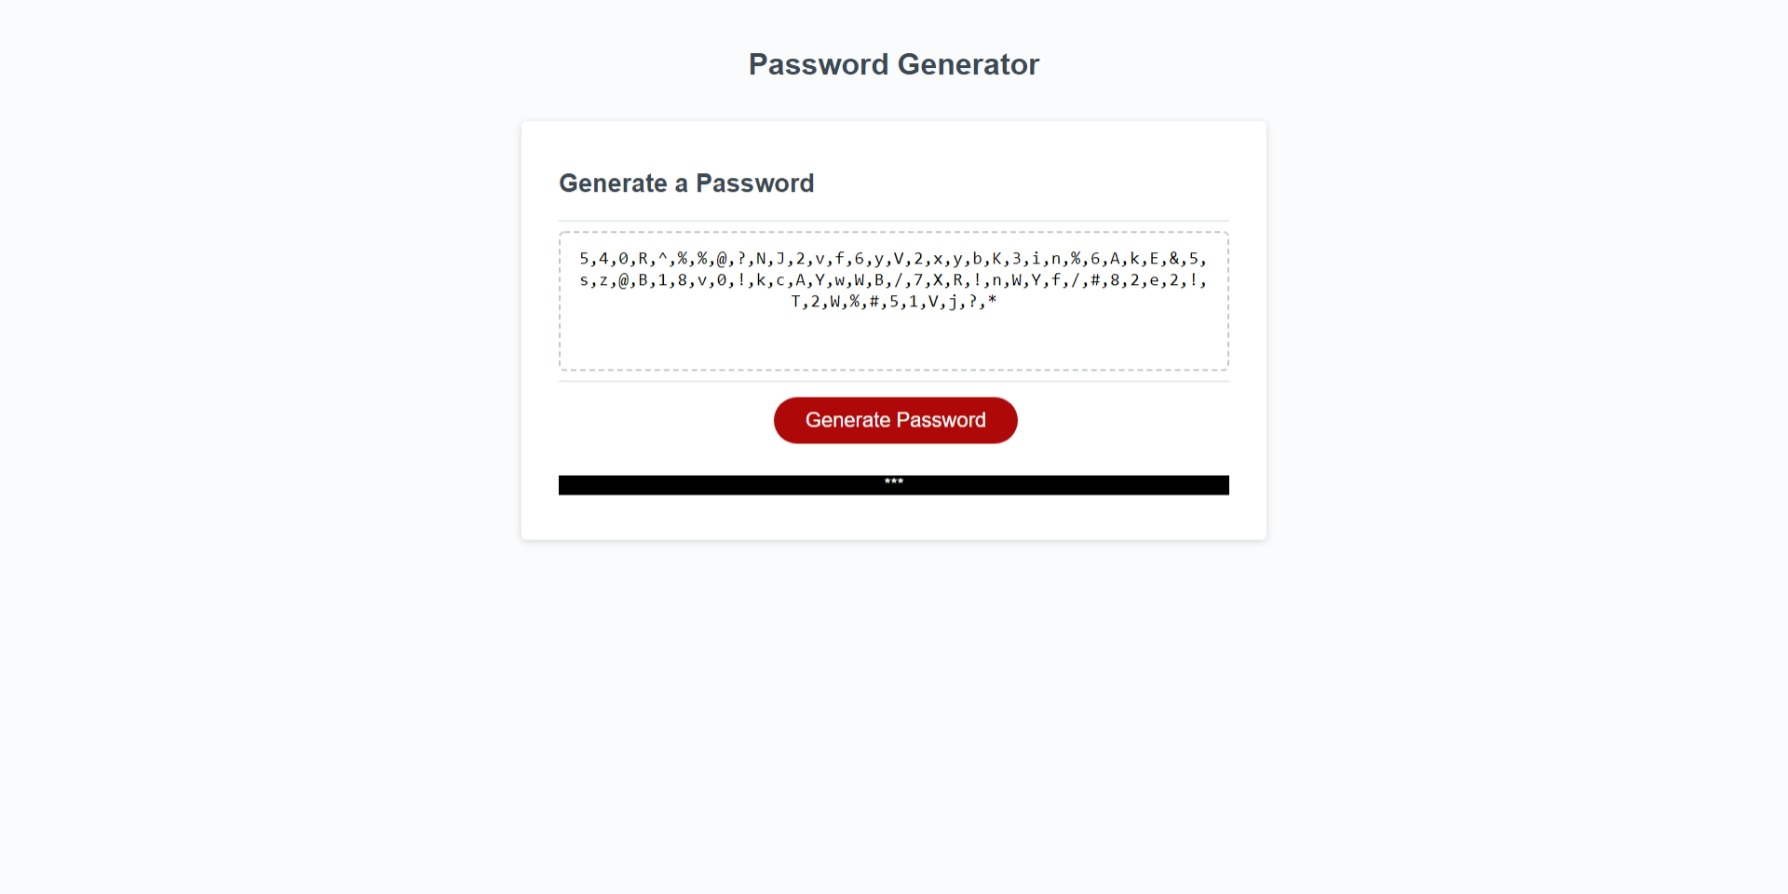
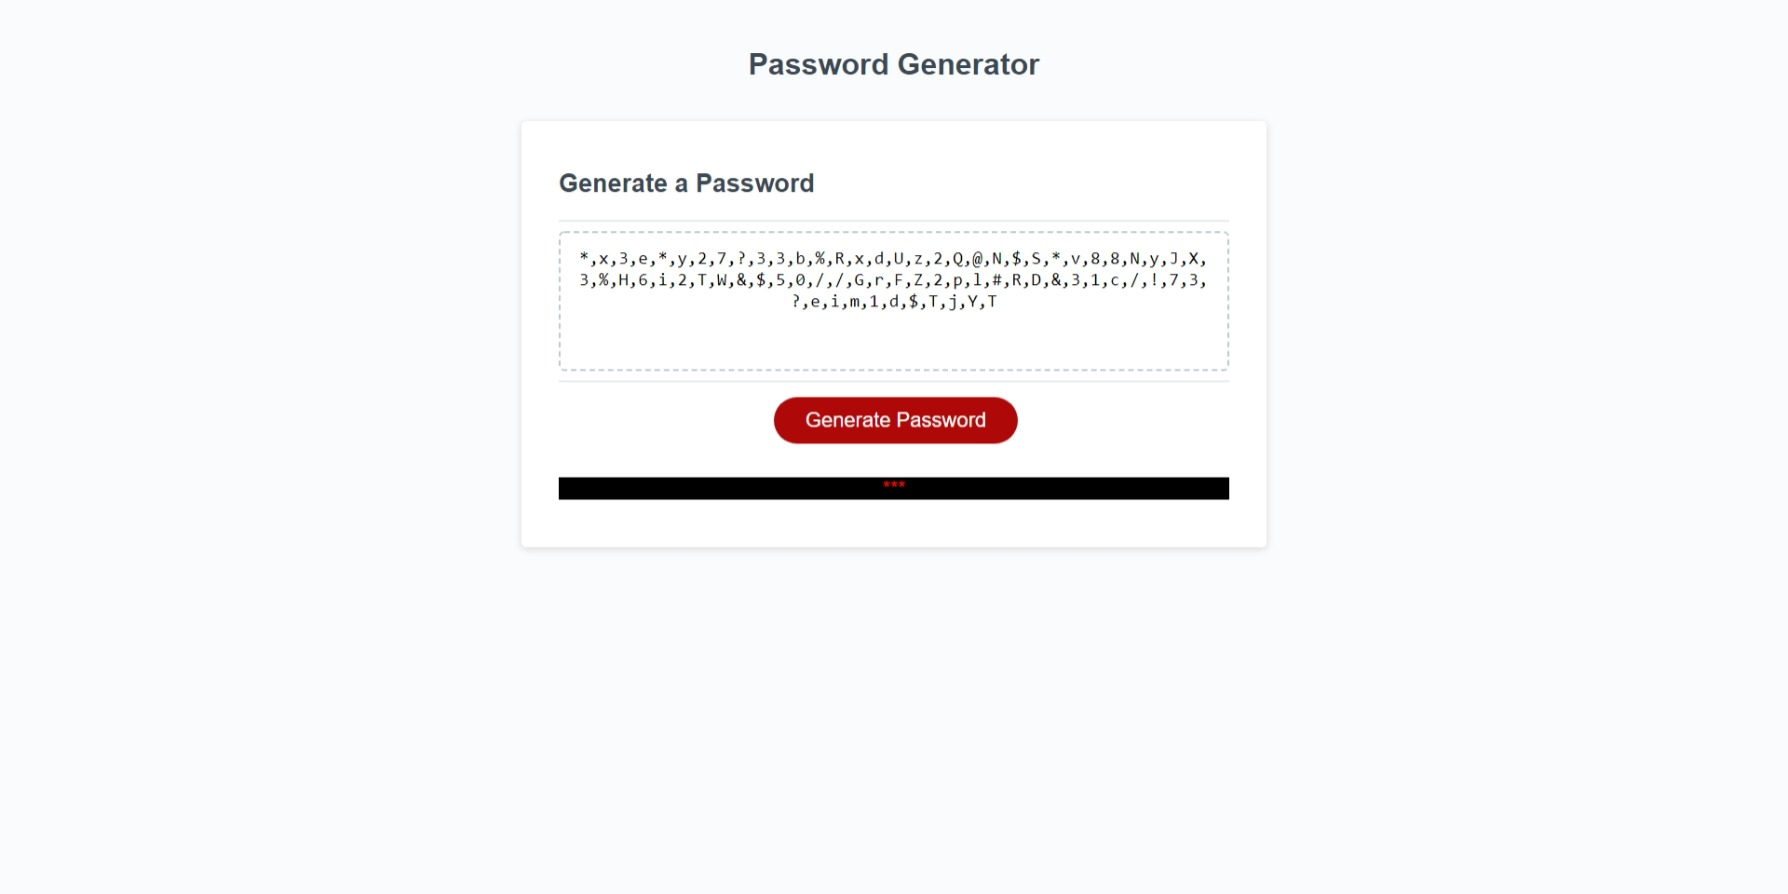
Cleaned up code.  Replaced screenshots.  Added true if statement for individual selection.  This must have got deleted earlier. Added let to variables in loops per review comments.

Changed region(s): [[0.3384, 0.2718, 0.6767, 0.3624], [0.3076, 0.5134, 0.6767, 0.5738]]

diff --git a/script.js b/script.js
@@ -8,95 +8,61 @@ var daRandom = {                    //This is the criteria selection initial arr
 var msg = 'Password must be between 8 and 128 characters.';   //** Responses to user wrong selections **/
 var msg1 = 'You must select a number.';
 var msg2 = 'You must select atleast 1 criteria.';
-var msg3 = 'Click Generate Password when you are ready.';
     
-function genpw() {
-
-  var quest1;  //List of questions to ask the user.
+function writePassword() {
+                                      
+  var quest1;                                                 //Variables for list of questions to ask the user.
   var quest2;
   var quest3;
   var quest4;
   var quest5;
-  var quest6;
 
-  //var mnray = [];  //This is the empty array that will hold the selected combined arrays for the generated random password.
-
-  var pick = 0;    //This represents count of how many criteria are selected.
+  var pick = 0;                                                //This represents count of how many criteria are selected.
   var dadivr = 0;
   var nwlray;
-  // var j;
   var newPswd = [];
   var pwdAdjust;
-  var k;
-  var i, rand, temp = [];
-  var x;           //This is for the loop nmlray and the push into the new array.  It keeps the number within the range of the selected array. 
+  // var k;
+  // var i;
+  var rand
+  var temp = [];
+  // var x;                                                       //This is for the loop nmlray and the push into the new array.  It keeps the number within the range of the selected array. 
   
-  quest2 = prompt('How many characters in the password?');
-  if ((quest2 <8) || (quest2 >128)) {
+  quest1 = prompt('How many characters in the password?');
+  if ((quest1 <8) || (quest1 >128)) {
     document.getElementById('dialog').innerHTML = msg; return;
-  } else if (isNaN(quest2)) {
+  } else if (isNaN(quest1)) {
   document.getElementById('dialog').innerHTML = msg1; return;
   } else {
-    quest2 = quest2;
+    quest1 = quest1;
   }
 
-  quest3 = confirm('Include lowercase letters?');
-  // if (quest3 ==true) {
-    // for (j = 0; j < dadivr; j++) {
-    // nwlray = [Math.floor(Math.random() * daRandom.lowwer.length)];
-    // newPswd.push(daRandom.lowwer[nwlray])};
-  // for (i = 0; i < daRandom.lowwer.length; i++) {mnray.push(daRandom.lowwer[i])};
-  // } else {
-  //   quest3 = quest3;
-  // }
+  quest2 = confirm('Include lowercase letters?');               //Criteria confirmation questions for user.
+    
+  quest3 = confirm('Include uppercase letters?');
   
-  quest4 = confirm('Include uppercase letters?');
-  // if (quest4 ==true) {
-    // for (j = 0; j < dadivr; j++) {
-    // nwlray = [Math.floor(Math.random() * daRandom.upper.length)];
-    // newPswd.push(daRandom.upper[nwlray])};
-  // for (i = 0; i < daRandom.upper.length; i++) {mnray.push(daRandom.upper[i])};
-  // } else {
-  // quest4 = quest4;
-  // }
-
-  quest5 = confirm('Include numbers?');
-  // if (quest5 ==true) {
-    // for (j = 0; j < dadivr; j++) {
-    // nwlray = [Math.floor(Math.random() * daRandom.numbers.length)];
-    // newPswd.push(daRandom.numbers[nwlray])};
-  // for (i = 0; i < daRandom.numbers.length; i++) {mnray.push(daRandom.numbers[i])};
-  // } else {
-  // quest5 = quest5;
-  // }
-
-  quest6 = confirm('Include special characters?');
-  // if (quest6 ==true) {
-    // for (j = 0; j < dadivr; j++) {
-    // nwlray = [Math.floor(Math.random() * daRandom.charspec.length)];
-    // newPswd.push(daRandom.charspec[nwlray])};
-  // for (i = 0; i < daRandom.charspec.length; i++) {mnray.push(daRandom.charspec[i])};  
-  // } else {
-  // quest6 = quest6;
-  // }
+  quest4 = confirm('Include numbers?');
   
+  quest5 = confirm('Include special characters?');
+    
   if (
-    (quest3 == false && quest4 == false) &&
-    (quest5 == false && quest6 == false)            //This validate the user selects atleast one criteria.
+    (quest2 == false && quest3 == false) &&
+    (quest4 == false && quest5 == false)                      //This validate the user selects atleast one criteria.
   ) {   
     document.getElementById('dialog').innerHTML = msg2; return;
   }
            
-  if (quest3 ==true) {pick++;};                     //This block gets a criteria selection count
-  if (quest4 ==true) {pick++;}; 
-  if (quest5 ==true) {pick++;};
-  if (quest6 ==true) {pick++;};  
-  dadivr = Math.ceil(quest2 / pick);
+  if (quest2 ===true) {pick++;};                               //This block gets a criteria selection count
+  if (quest3 ===true) {pick++;}; 
+  if (quest4 ===true) {pick++;};
+  if (quest5 ===true) {pick++;};  
+  dadivr = Math.ceil(quest1 / pick);
 
 console.log(dadivr);                                //Used to debug
   
-  if (quest3 ==true) {                              
-    for(i = 0; i < daRandom.lowwer.length; i++) {   
+  if (quest2 ===true) {                              
+    for(let i = 0; i < daRandom.lowwer.length; i++) 
+    {   
       rand = Math.floor(Math.random() * daRandom.lowwer.length);   //Found a better way to randomize the array  https://stackoverflow.com/questions/2450954/how-to-randomize-shuffle-a-javascript-array#:~:text=The%20de%2Dfacto%20unbiased%20shuffle,Yates%20(aka%20Knuth)%20Shuffle.&text=function%20shuffle(array)%20%7B%20var,while%20(0%20!%3D%3D
       temp = daRandom.lowwer[i];
       daRandom.lowwer[i] = daRandom.lowwer[rand];
@@ -105,25 +71,21 @@ console.log(dadivr);                                //Used to debug
   }
 
   console.log(daRandom.lowwer);                     //Used to debug
-
-    for(x = 0; x < dadivr; x++) {
+  if(quest2 ===true) {
+    for(let x = 0; x < dadivr; x++) {
       nwlray = [Math.floor(Math.random() * daRandom.lowwer.length)];  //This must be used because dadivr can be a number higher that the numbers in the array.
       temp = daRandom.lowwer[nwlray];
       daRandom.lowwer[nwlray] = daRandom.lowwer[nwlray];
       daRandom.lowwer[nwlray] = temp;
       newPswd.push(daRandom.lowwer[nwlray]);  
     }
+  }  
 
 console.log(daRandom.lowwer);                       //Used to debug
 console.log(newPswd);
-
-  //   for (j = 0; j < dadivr; j++) {
-  //   nwlray = [Math.floor(Math.random() * daRandom.lowwer.length)];
-  //   newPswd.push(daRandom.lowwer[nwlray])};
-  // }
-
-  if (quest4 ==true) {
-    for(i = 0; i < daRandom.upper.length; i++) 
+  
+  if (quest3 ===true) {
+    for(let i = 0; i < daRandom.upper.length; i++) 
     {
       rand = Math.floor(Math.random() * daRandom.upper.length)
       temp = daRandom.upper[i]
@@ -131,24 +93,19 @@ console.log(newPswd);
       daRandom.upper[rand] = temp
     }
   }
-    for(x = 0; x < dadivr; x++) {
+
+  if(quest3 ===true) {
+    for(let x = 0; x < dadivr; x++) {
     nwlray = [Math.floor(Math.random() * daRandom.upper.length)];   //This will only select a random number within the array.
     temp = daRandom.upper[nwlray];
     daRandom.upper[nwlray] = daRandom.upper[nwlray];
     daRandom.upper[nwlray] = temp;
     newPswd.push(daRandom.upper[nwlray]);  
     }
-
-  // {
-  //   for (j = 0; j < dadivr; j++) {
-  //   nwlray = [Math.floor(Math.random() * daRandom.upper.length)];
-  //   newPswd.push(daRandom.upper[nwlray])};
-  // }
-
-// console.log(nwlray);
-
-  if (quest5 ==true) {
-    for(i = 0; i < daRandom.numbers.length; i++) 
+  }  
+  
+  if (quest4 ===true) {
+    for(let i = 0; i < daRandom.numbers.length; i++) 
     {
       rand = Math.floor(Math.random() * daRandom.numbers.length)
       temp = daRandom.numbers[i]
@@ -156,22 +113,19 @@ console.log(newPswd);
       daRandom.numbers[rand] = temp
     }
   }
-    for(x = 0; x < dadivr; x++) {
+
+  if(quest4 ===true) {
+    for(let x = 0; x < dadivr; x++) {
     nwlray = [Math.floor(Math.random() * daRandom.numbers.length)];   //This will only select a random number within the array.
     temp = daRandom.numbers[nwlray];
     daRandom.numbers[nwlray] = daRandom.numbers[nwlray];
     daRandom.numbers[nwlray] = temp;
     newPswd.push(daRandom.numbers[nwlray]);  
     }
-    
-  // {
-  //   for (j = 0; j < dadivr; j++) {
-  //   nwlray = [Math.floor(Math.random() * daRandom.numbers.length)];
-  //   newPswd.push(daRandom.numbers[nwlray])};
-  // }
-
-  if (quest6 ==true) {
-    for(i = 0; i < daRandom.charspec.length; i++) 
+   } 
+  
+  if(quest5 ===true) {
+    for(let i = 0; i < daRandom.charspec.length; i++) 
     {
       rand = Math.floor(Math.random() * daRandom.charspec.length)
       temp = daRandom.charspec[i]
@@ -179,23 +133,20 @@ console.log(newPswd);
       daRandom.charspec[rand] = temp
     }
   }
-    for(x = 0; x < dadivr; x++) {
+
+  if(quest5===true) {
+    for(let x = 0; x < dadivr; x++) {
     nwlray = [Math.floor(Math.random() * daRandom.charspec.length)];    //This will only select a random number within the array.
     temp = daRandom.charspec[nwlray];
     daRandom.charspec[nwlray] = daRandom.charspec[nwlray];
     daRandom.charspec[nwlray] = temp;
     newPswd.push(daRandom.charspec[nwlray]);  
     }
-    
-  // {
-  //   for (j = 0; j < dadivr; j++) {
-  //   nwlray = [Math.floor(Math.random() * daRandom.charspec.length)];
-  //   newPswd.push(daRandom.charspec[nwlray])};
-  // }
+  }
 
 console.log(newPswd);                                         //Used to debug (show password array order before shuffling)
 
-  for(i = 0; i < newPswd.length; i++)                         //This randomizes the array from which the password will be selected
+  for(let i = 0; i < newPswd.length; i++)                         //This randomizes the array from which the password will be selected
     {
       rand = Math.floor(Math.random() * newPswd.length)
       temp = newPswd[i]
@@ -203,23 +154,19 @@ console.log(newPswd);                                         //Used to debug (s
       newPswd[rand] = temp
     }                                                         //This is so it does not delete the last criteria selection only in the next step.
   
-
 console.log(newPswd);                                         //Used to debug
 
-  if (newPswd != quest2) {                                    //The block will adjust the password difference due to Math.floor rounding
-    pwdAdjust = newPswd.length - quest2;
-    for (k = 0; k < pwdAdjust; k++) {newPswd.pop()};
+  if (newPswd != quest1) {                                    //The block will adjust the password difference due to Math.floor rounding
+    pwdAdjust = newPswd.length - quest1;
+    for (let k = 0; k < pwdAdjust; k++) {newPswd.pop()};
     console.log (newPswd.length);                             //These two lines check to see if the user password length and actual password have the same abount of characters
-    console.log (quest2);
+    console.log (quest1);
     document.getElementById('password').innerHTML = newPswd;
   }
-
 };
 
 // genpw();
-generate.addEventListener('click', genpw);
-
-
+generate.addEventListener('click', writePassword);
 
 /****************This is the starter code ****************** 
 // Assignment Code

diff --git a/style.css b/style.css
@@ -98,8 +98,9 @@ button[disabled] {
 }
 
 #dialog {
-  color: white;
+  color: red;
   background-color: black;
+  font-size: 1.3rem;
 }
 
 #password {

diff --git a/README.md b/README.md
@@ -7,7 +7,7 @@ This application is structured with HTML and styled with CSS to present a user w
 
 ![Initial Start Screen](./assets/images/password_gen_start.jpeg)
 
-![Dialog to user for incorrect input](./assets/images/password_gen_dialog_incorrect_input.jpeg)
+![Dialog to user for incorrect input](./assets/images/password_gen_incorrect_user_input.jpeg)
 
 ![User input prompt](./assets/images/password_gen_user_input1.png)
 
